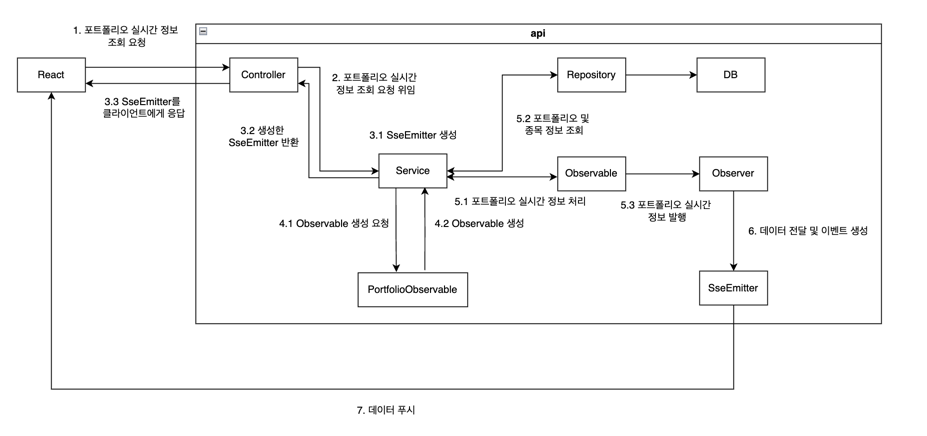
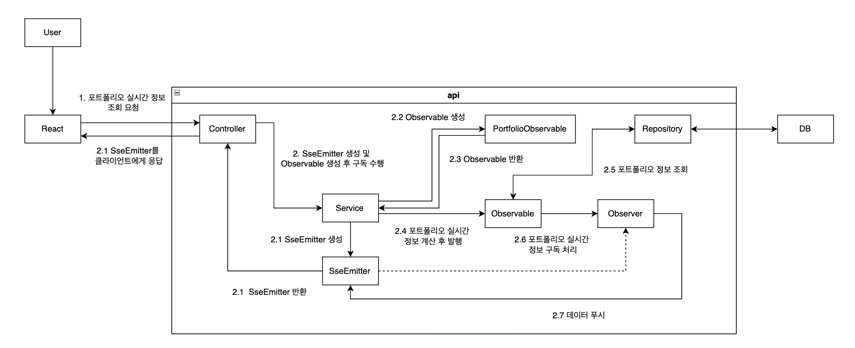
docs: sse 설명 추가

diff --git a/README.md b/README.md
@@ -87,35 +87,30 @@
 
 ![image](./img/create_holding_purchase-history.png)
 
-1. 회원은 특정한 포트폴리오 페이지로 접속해서 포트폴리오 종목 및 매입 이력 정보를 입력하고 추가를 요청합니다.
-2. 입력 정보를 받은 컨트롤러에서 입력 정보의 유효성을 검증합니다.
-3. 컨트롤러에서 서비스로 포트폴리오 종목 및 매입 이력 추가를 요청합니다.
-4. 서비스는 포트폴리오 종목 및 매입 이력의 제약 조건*을 검증합니다.
-    - *포트폴리오의 잔고가 매입 이력을 추가하기에 충분한 금액이 있어야 합니다.
+1. 클라이언트로부터 포트폴리오 종목 및 매입 이력 입력 정보를 받은 컨트롤러는 유효성 검증을 수행합니다.
+2. 서비스는 종목 및 매입 이력 입력 정보의 제약 조건*을 검증하고 인스턴스를 생성합니다.
+    - ***포트폴리오의 잔고가 매입 이력을 추가하기에 충분한 금액이 있어야 합니다.**
     - *추가하고자 하는 종목이 데이터베이스 내에 존재해야 합니다.
-5. 서비스는 포트폴리오 종목 및 매입 이력 객체를 생성합니다.
-6. 서비스는 저장소에 포트폴리오 종목 및 매입 이력 데이터 저장을 요청합니다.
-7. 저장소는 포트폴리오 종목 및 매입 이력 데이터를 데이터베이스에 저장합니다.
+3. 저장소는 서비스로부터 받은 포트폴리오 종목 및 매입 이력을 데이터베이스에 저장합니다.
 
 ### 4.3 포트폴리오 실시간 정보 조회
 
-포트폴리오 실시간 정보 조회는 포트폴리오와 포트폴리오에 등록되어있는 종목 및 매입이력에 대한 계산 정보들을 실시간으로 조회하는 API입니다.
+포트폴리오 실시간 정보 조회는 포트폴리오와 포트폴리오 종목 및 매입이력에 대한 계산 정보들을 실시간으로 조회하는 API입니다.
 해당 API는 SSE(Server-Sent-Event) 방식으로 특정 시간 간격으로 데이터를 서버로부터 푸시받습니다.
 
 ![image](./img/search_holding_sse.png)
 
-1. 회원은 특정한 포트폴리오 페이지로 접속하여 포트폴리오의 실시간 정보 조회를 요청합니다.
-2. 컨트롤러는 포트폴리오 등록번호를 입력받고 서비스에 요청을 위임합니다.
-3. 서비스는 포트폴리오 등록번호를 기반으로 SseEmitter 객체를 생성합니다.
-    - 생성한 SseEmitter 객체는 Observer 객체 생성시 주입됩니다.
-    - 생성한 SseEmitter 객체는 클라이언트에게 HttpResponse로 응답됩니다.
-4. 서비스는 주식 장시간 중이라면 PortfolioObservable 컴포넌트를 통하여 Observable 객체를 생성합니다.
-    - 생성한 Observable 객체는 5초 간격으로 총 30초 동안 데이터를 발행합니다.
-5. Observable 객체는 비동기적으로 수행하면서 구독한 Observer에게 데이터(포트폴리오의 실시간 정보)를 발행합니다.
-    - Observable 객체는 실행 중에 서비스에 요청하여 포트폴리오의 실시간 정보를 요청합니다.
-6. Observer는 데이터가 발행될 때마다 SseEmitter에게 데이터를 전달하고 이벤트를 생성합니다.
-    - PortfolioObserver는 SseEmitter을 주입받는 상태
-7. 서버로부터 SseEmitter를 응답받은 클라이언트는 포트폴리오 및 포트폴리오 종목에 대한 실시간 정보를 푸시받습니다.
+1. 컨트롤러는 클라이언트로부터 포트폴리오 실시간 정보 조회를 요청받습니다. 컨트롤러는 서비스에 포트폴리오 등록번호를 전달하며 조회를 요청합니다.
+2. 서비스는 SseEmitter를 생성하고 Observable 객체를 생성 후 구독을 수행합니다.
+    1. 서비스는 SseEmitter를 생성하고 바로 클라이언트에게 반환합니다.
+    2. PortfolioObservable 컴포넌트를 이용하여 Observable 객체를 생성합니다.
+        - 생성한 Observable 객체는 5초 간격으로 총 30초 동안 데이터를 발행
+    3. 생성한 Observable 객체 반환
+    4. 반환받은 Observable 객체에 구독을 요청합니다. 해당 객체는 포트폴리오의 실시간 정보를 계산후 데이터를 발행합니다.
+    5. Observable 객체는 다른 서비스를 통하여 포트폴리오 정보 조회 후 필요한 정보를 게산합니다.
+    6. 데이터가 발행되면 Observer에게 전달되어 구독 처리를 수행합니다.
+        - PortfolioObserver는 SseEmitter을 주입받는 상태
+    7. Observer는 의존 주입된 SseEmitter 객체를 통하여 클라이언트에게 데이터(포트폴리오 실시간 정보)를 푸시합니다.
 
 </div>
 </details>
